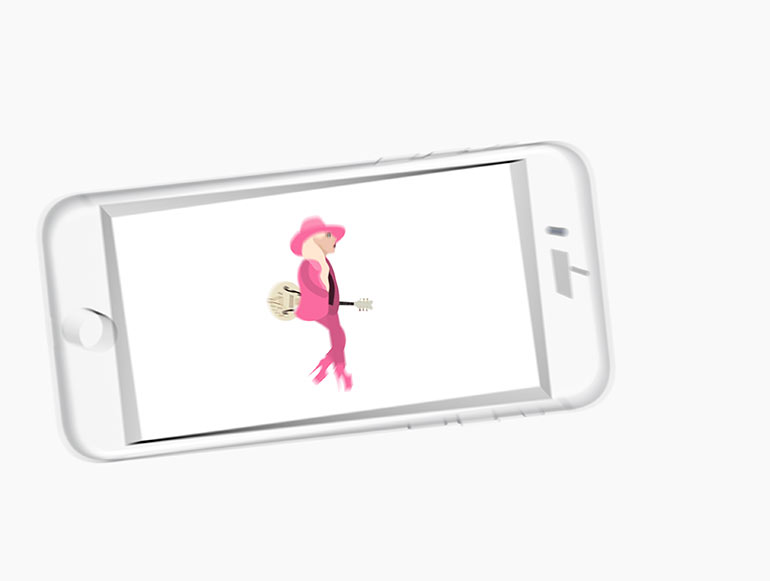
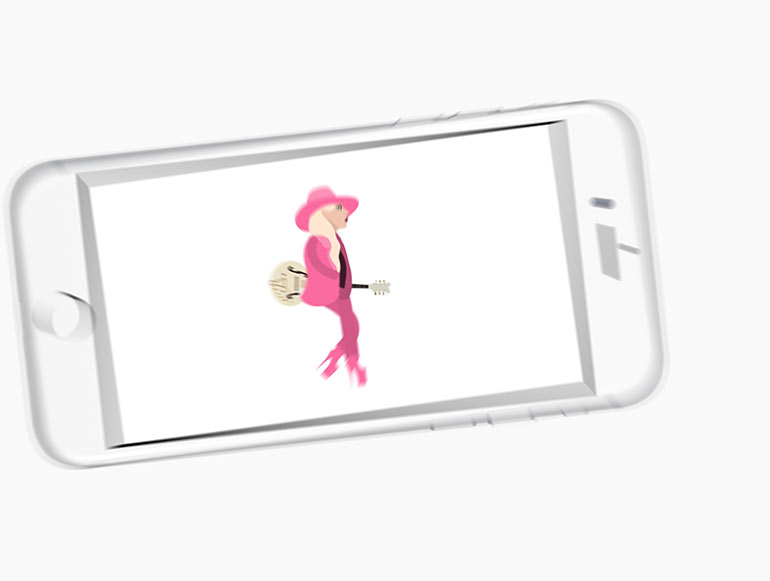
positions of motion header photos

Changed region(s): [[0.0, 0.1549, 0.8727, 0.8055]]

diff --git a/common/casestudy.css b/common/casestudy.css
@@ -212,6 +212,10 @@ html {
     color: grey;
   }
 
+  .motion-reel .iso2 {
+    top: -110px
+  }
+
 }
 
 /* 404 page */
@@ -384,6 +388,12 @@ html {
 
   .liquid .project-logo {
     bottom: 65px;
+  }
+
+  /* motion */
+
+  .motion-reel .iso2 {
+    top: -170px
   }
 
 
@@ -580,6 +590,10 @@ html {
 
   .motion-reel .project-logo {
     bottom: 200px;
+  }
+
+  .motion-reel .iso2 {
+    top: -350px
   }
 
 
